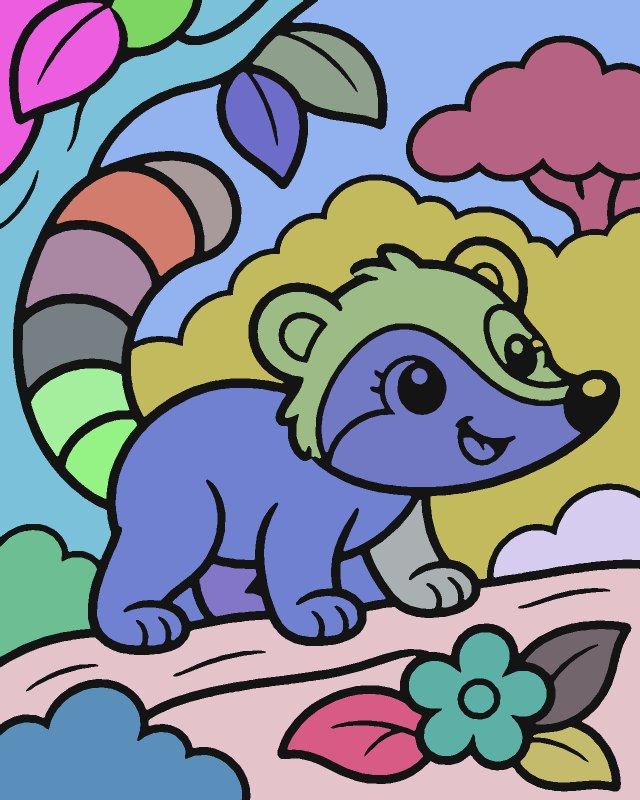
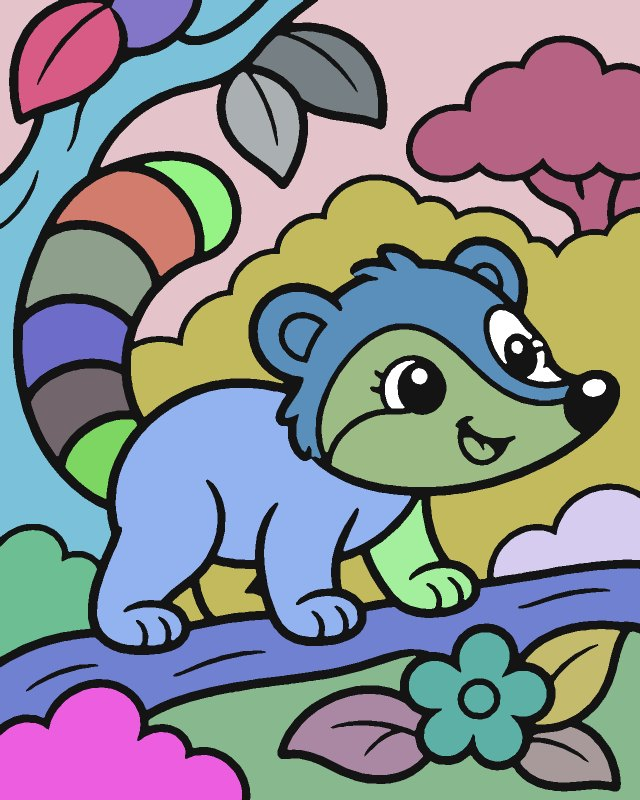
fix: corregir el ojo y el relleno del tronco en E09

diff --git a/tool/laminas/convertir.py b/tool/laminas/convertir.py
@@ -66,7 +66,7 @@ PAGINAS_PREVIAS = {'E01': ('rana-en-la-hoja', 2), 'M06': ('quetzal', 2),
 def pagina_de(art_id, tema_id):
     if art_id in PAGINAS_PREVIAS:
         return PAGINAS_PREVIAS[art_id]
-    return f'{art_id.lower()}-{tema_id}', 2 if art_id in {'E03', 'E04', 'E05', 'E06', 'E07'} else 1
+    return f'{art_id.lower()}-{tema_id}', 2 if art_id in {'E03', 'E04', 'E05', 'E06', 'E07', 'E09'} else 1
 
 
 def leer_gris(ruta):
@@ -259,7 +259,9 @@ def procesar(art_id, tema_id, fuente, original):
     brillos = [a for a in list(g.area)
                if pequeno(a) and macizo[a] > 2.0]
     sondas_reflejos = {'E06': ((689, 256),),
-                      'E07': ((483, 723), (271, 848))}
+                      'E07': ((483, 723), (271, 848)),
+                      'E09': ((837, 752), (1033, 694), (1188, 775),
+                              (781, 772), (1005, 648), (1080, 748), (1072, 687))}
     for x, y in sondas_reflejos.get(art_id, ()):
         reflejo = int(zonas[y, x])
         if reflejo == 0 or not pequeno(reflejo):
@@ -298,6 +300,12 @@ def procesar(art_id, tema_id, fuente, original):
                  '9 garras agrupadas en una región propia'),
                 (((211, 956), (579, 748)),
                  '2 manchas de los ojos agrupadas en una región propia')],
+        'E09': [(((907, 612), (939, 515), (972, 545), (597, 666)),
+                 'orejas pequeñas agrupadas con la cabeza'),
+                (((858, 104), (30, 30)),
+                 'rincón superior izquierdo agrupado con el cielo'),
+                (((1171, 607), (710, 1154), (372, 1201), (446, 1175)),
+                 'huecos entre las patas agrupados con el fondo')],
     }
     agrupadas_a_mano = 0
     for puntos, nota in grupos_manuales.get(art_id, ()):
@@ -481,6 +489,9 @@ def procesar(art_id, tema_id, fuente, original):
     if art_id in sondas_reflejos:
         for brillo in brillos:
             paleta[numero[brillo]] = 255
+    if art_id == 'E09':
+        # Distingue el suelo del tronco en la vista de comprobación.
+        paleta[mapa[1450, 497]] = (142, 184, 136)
     previa = paleta[lienzo]
     previa[tinta_vec == 1] = (20, 20, 20)
     previa = cv2.resize(previa, (round(ancho * 0.5), round(alto * 0.5)),

diff --git a/tool/laminas/manifiesto.py b/tool/laminas/manifiesto.py
@@ -91,6 +91,7 @@ PREVIAS = {
     'e05-flor-tropical': {'1': 'pages/e05-flor-tropical-v1.json'},
     'e06-quetzal': {'1': 'pages/e06-quetzal-v1.json'},
     'e07-perezoso': {'1': 'pages/e07-perezoso-v1.json'},
+    'e09-coati': {'1': 'pages/e09-coati-v1.json'},
     'rana-en-la-hoja': {'1': 'pages/rana-en-la-hoja-v1.json'},
     'quetzal': {'1': 'pages/quetzal-v1.json'},
     'sendero': {'1': 'pages/sendero-v1.json'},

diff --git a/docs/laminas/REGISTRO_CAMBIOS.md b/docs/laminas/REGISTRO_CAMBIOS.md
@@ -67,12 +67,12 @@ Todas las láminas se normalizan a 1600 px de lado mayor y se vectorizan; debajo
 - huecos de trazo cerrados (579 px)
 - 16 zonas pequeñas agrupadas con su vecina
 
-## E09 · `e09-coati` (revisión 1)
+## E09 · `e09-coati` (revisión 2)
 
 - Original: `Imagen de ChatGPT 12 nov 2026, 23_03_58-3.webp` → `E09_coati.webp` (1122 × 1402 px), SHA-256 `72b8399cfe7a6469…`
-- Lienzo: 1280 × 1600 (vertical); trazo 17.6 px; tinta que toca el marco: 6.5 %
-- huecos de trazo cerrados (712 px)
-- 17 zonas pequeñas agrupadas con su vecina
+- Fuente corregida: `tool/laminas/fuentes_corregidas/E09.png`. Se cerró el párpado inferior junto a la pupila del ojo cercano y se continuó el borde inferior del tronco hasta el marco derecho.
+- Lienzo: 1280 × 1600 (vertical); trazo 17.6 px; tinta que toca el marco: 6.8 %
+- Los detalles blancos de los ojos y el reflejo de la nariz tienen regiones propias. Las orejas comparten color con la cabeza y los huecos entre las patas con el fondo.
 
 ## E10 · `e10-helechos` (revisión 1)
 
